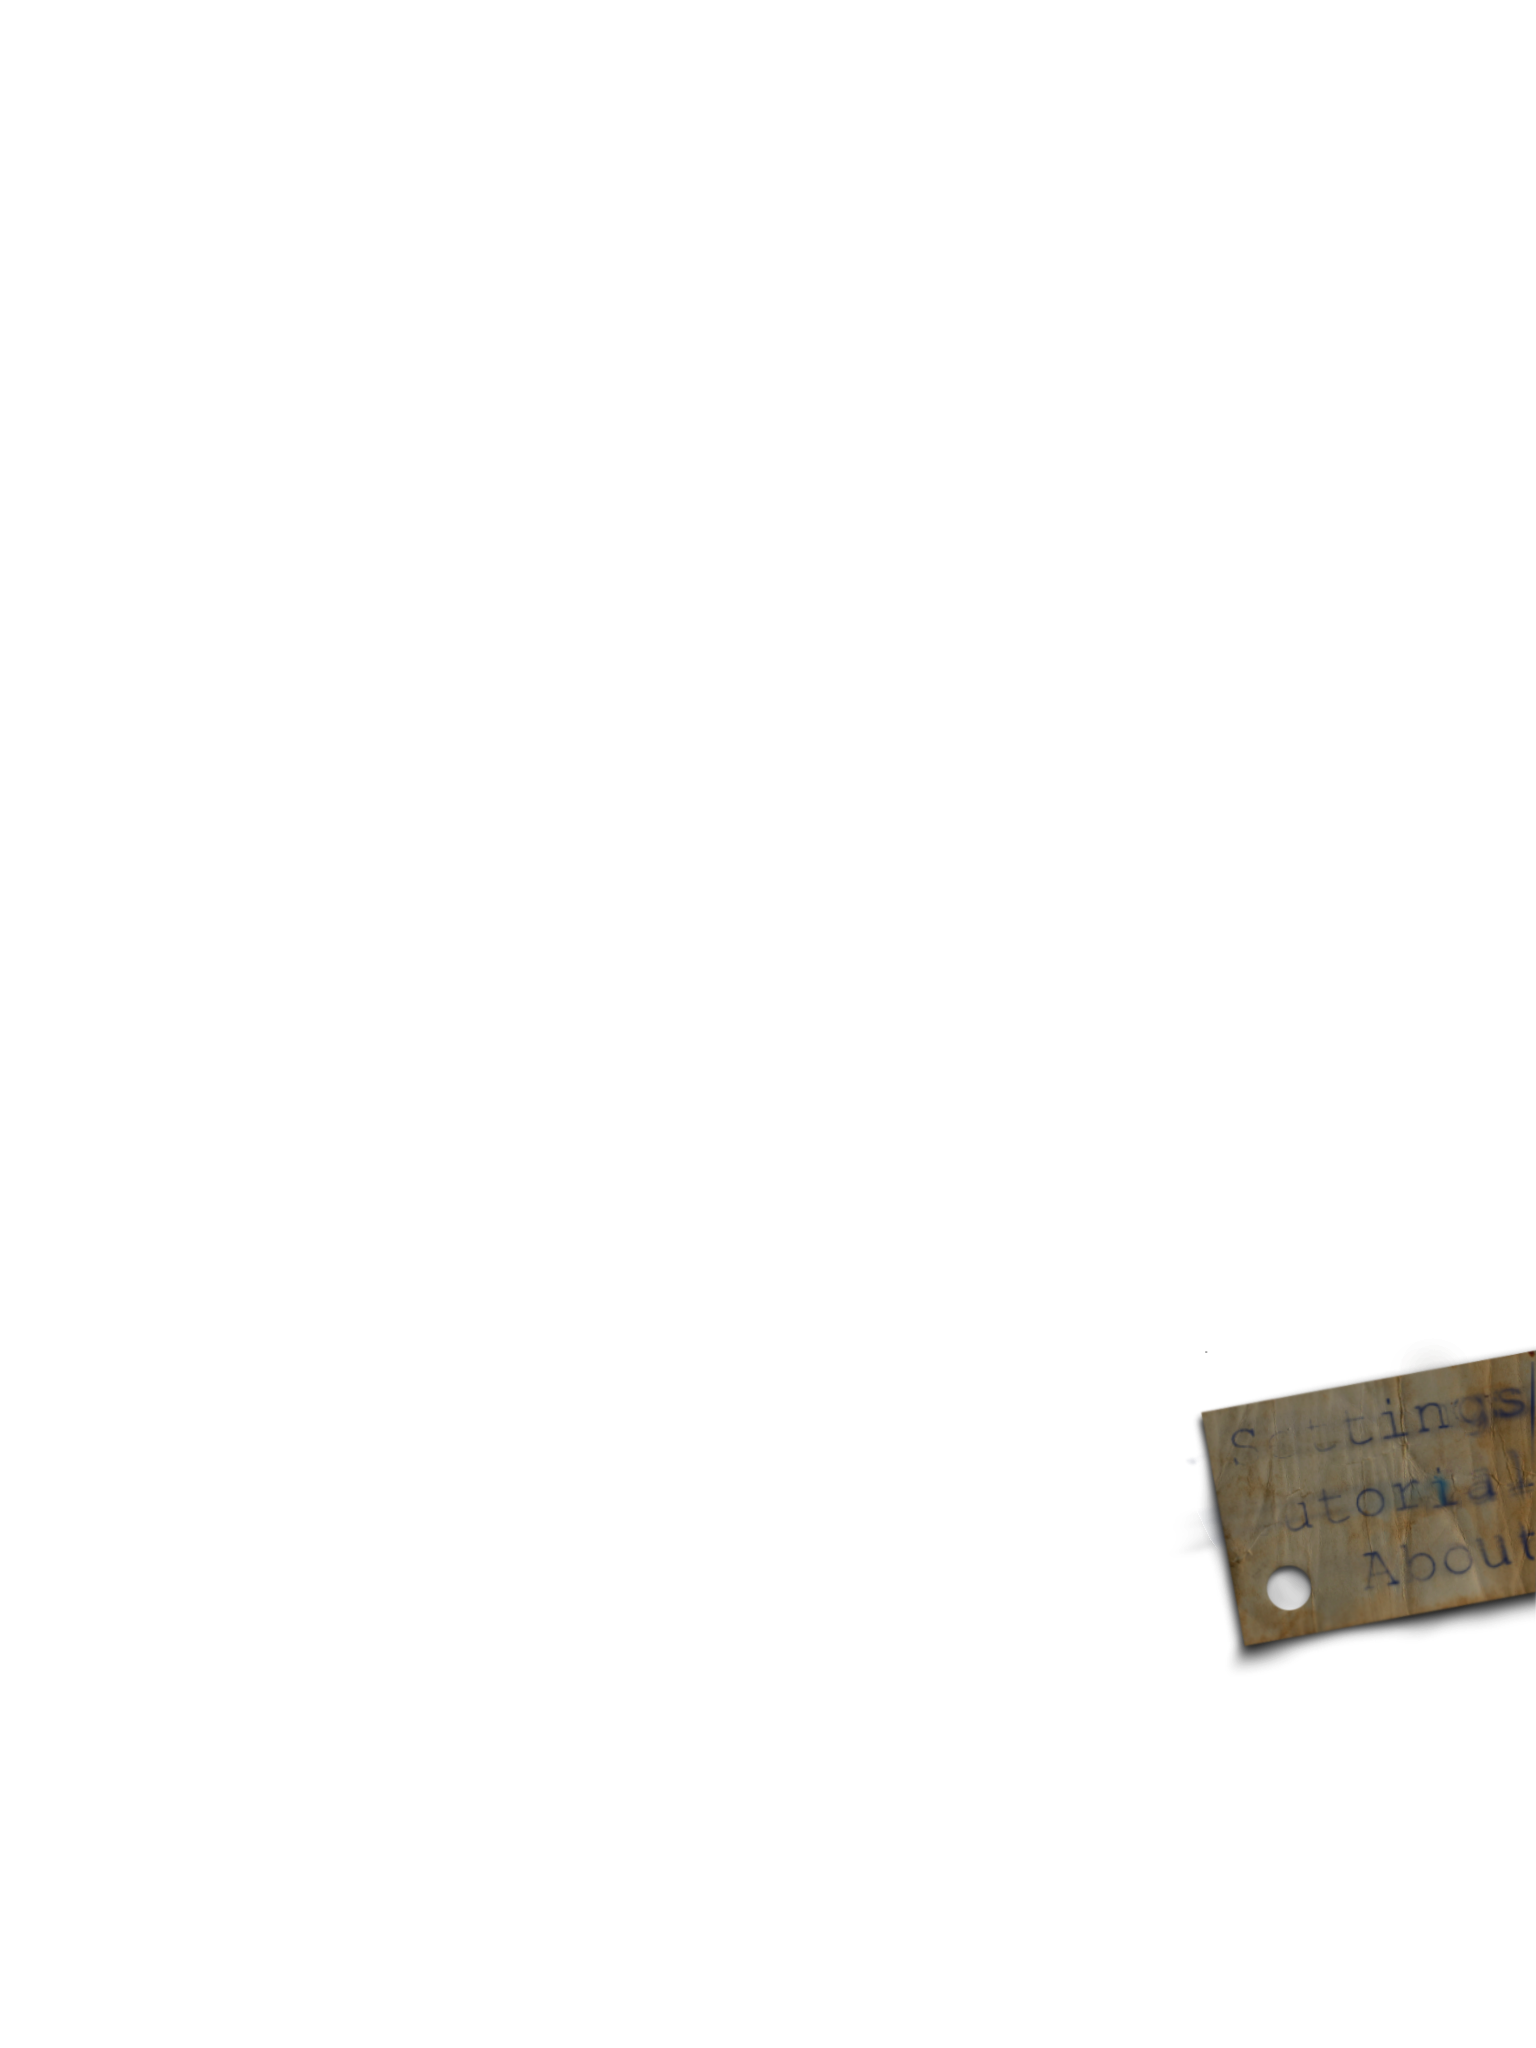
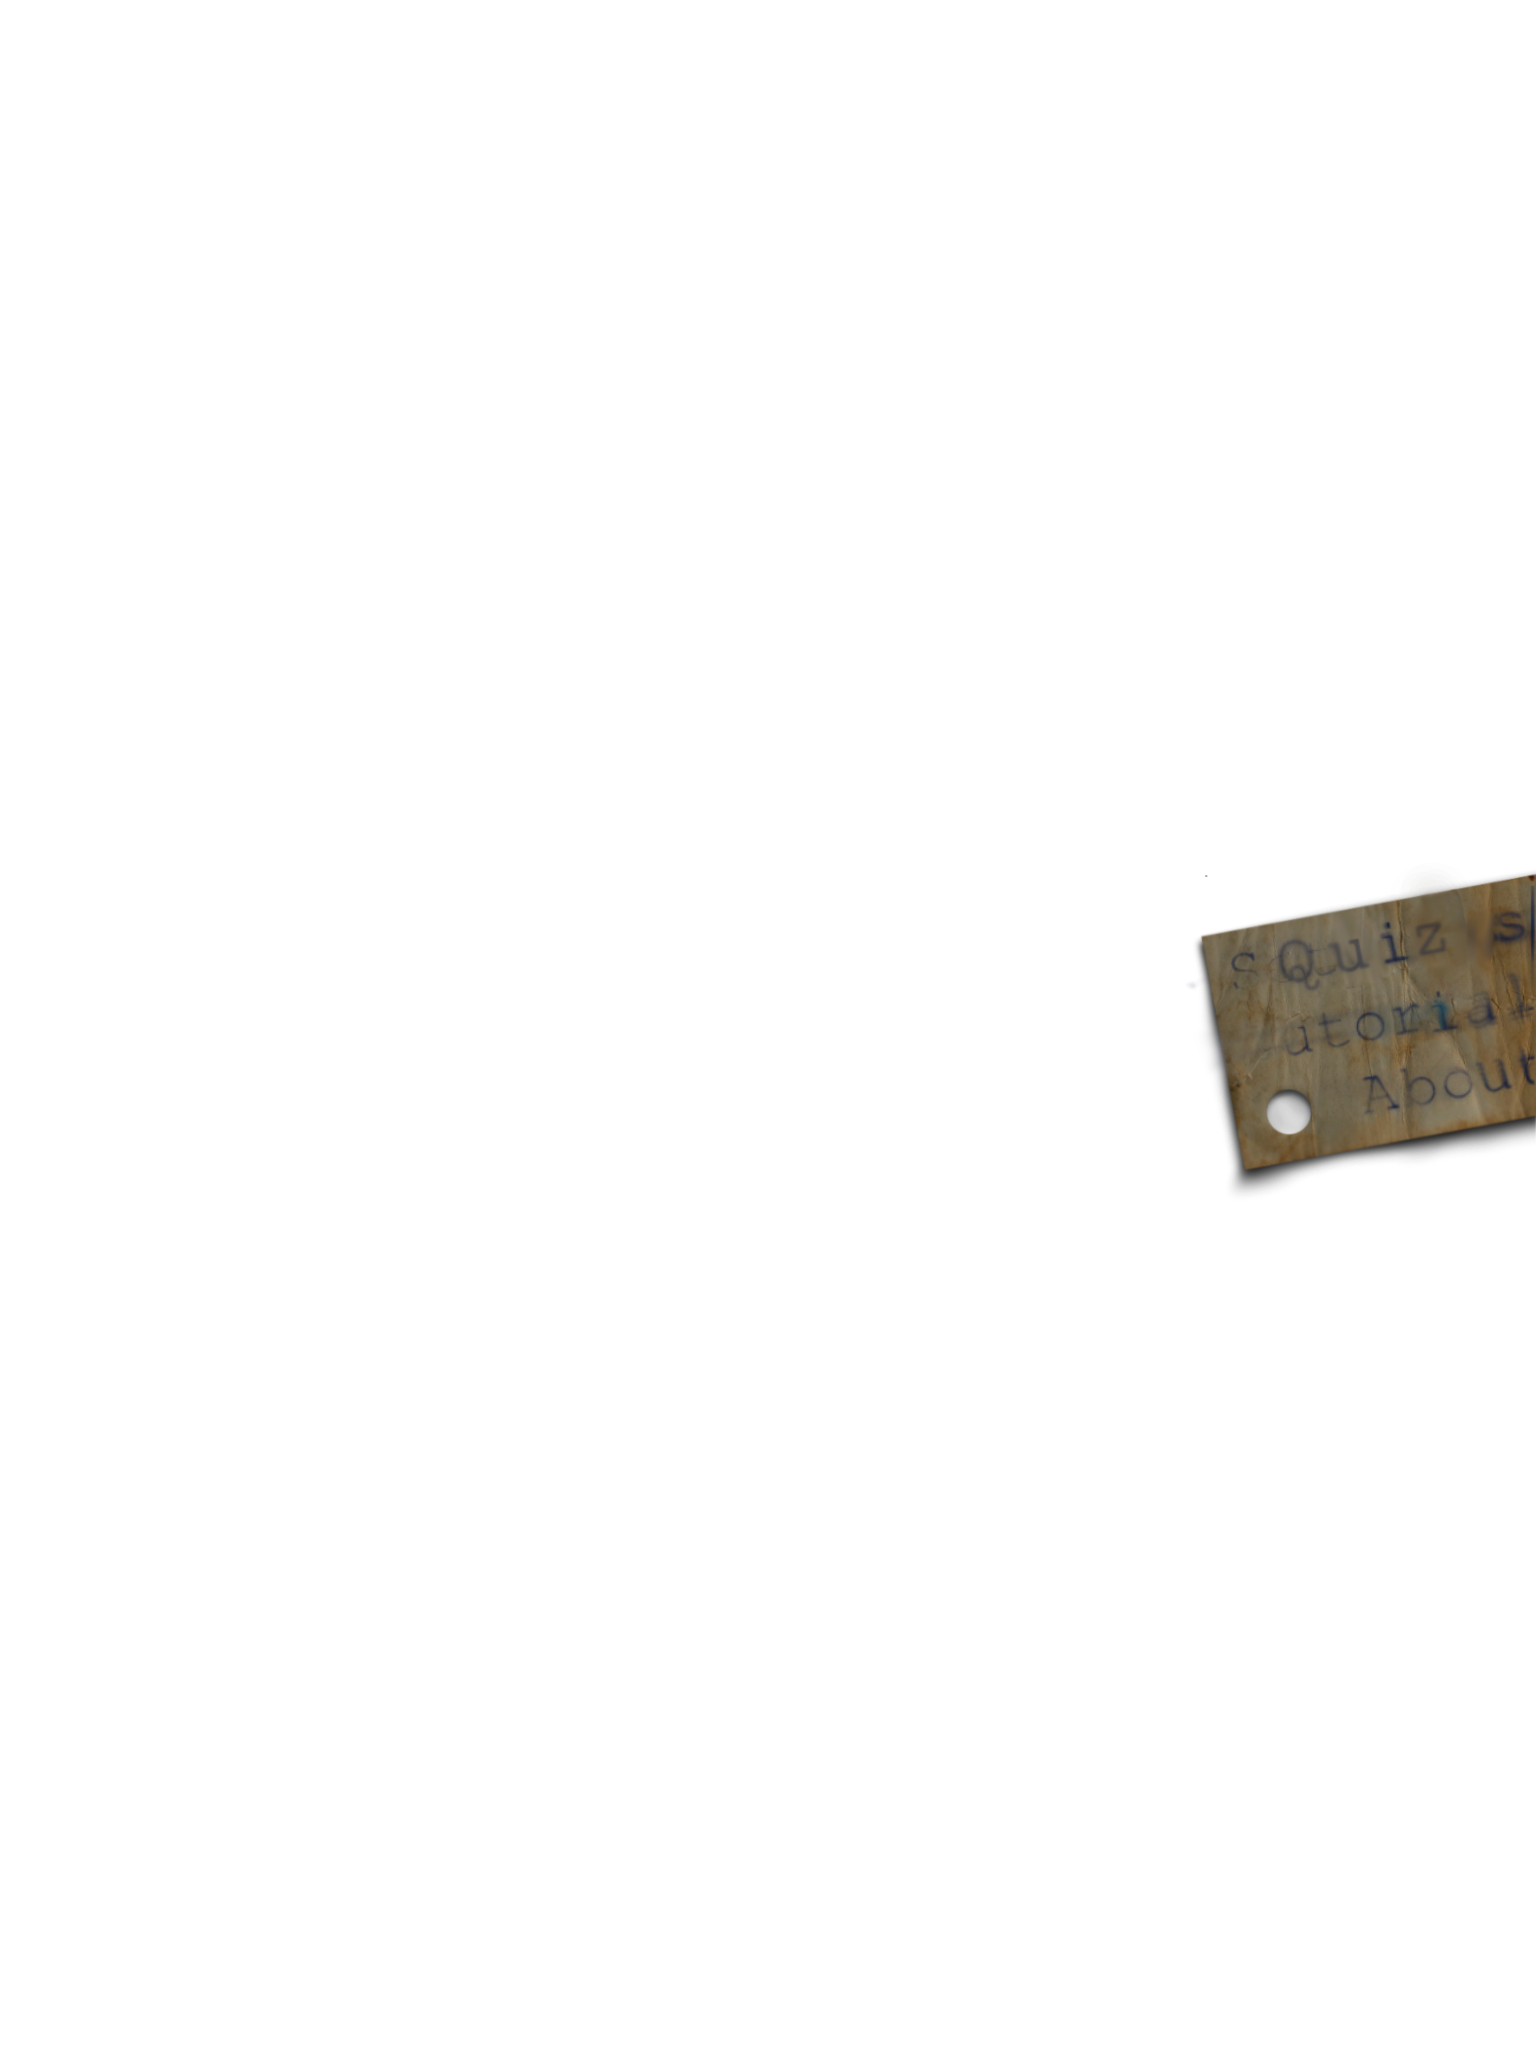
Build 09

Changed region(s): [[0.7812, 0.6562, 1.0, 0.8125], [0.7812, 0.4062, 1.0, 0.5938]]

diff --git a/Brainstem101/BSTutorialImageView.m b/Brainstem101/BSTutorialImageView.m
@@ -10,8 +10,8 @@
 
 const static int exitButtonWidthHeight = 150;
 
-
-@implementation BSTutorialImageView{
+@implementation BSTutorialImageView
+{
     CGRect yesButtonFrame;
     CGRect noButtonFrame;
 }
@@ -27,9 +27,9 @@ const static int exitButtonWidthHeight = 150;
         noButtonFrame = CGRectMake(410, 485, 90, 90);
         
         [self setUserInteractionEnabled:YES];
-        _exitButton = [UIButton buttonWithType:UIButtonTypeCustom];
-        [_exitButton addTarget:self action:@selector(quitTutorial:) forControlEvents:UIControlEventTouchUpInside];
-        [_exitButton setFrame: CGRectMake(tutorialFrame.size.width - exitButtonWidthHeight , tutorialFrame.size.height - exitButtonWidthHeight, exitButtonWidthHeight, exitButtonWidthHeight)];
+        self.exitButton = [UIButton buttonWithType:UIButtonTypeCustom];
+        [self.exitButton addTarget:self action:@selector(quitTutorial:) forControlEvents:UIControlEventTouchUpInside];
+        [self.exitButton setFrame: CGRectMake(tutorialFrame.size.width - exitButtonWidthHeight , tutorialFrame.size.height - exitButtonWidthHeight, exitButtonWidthHeight, exitButtonWidthHeight)];
         [self addSubview:_exitButton];
         
         [[BSModel sharedModel] setInTutorialMode:YES];
@@ -38,38 +38,50 @@ const static int exitButtonWidthHeight = 150;
 }
 
 
-+ (BSTutorialImageView *) askTutorial {
++ (BSTutorialImageView *)askTutorial
+{
     BSTutorialImageView *tutorialView = [[BSTutorialImageView alloc] init];
     [tutorialView askTutorial];
     return tutorialView;
 }
 
-+ (BSTutorialImageView *) page0Tutorial {
++(BSTutorialImageView *)page0Tutorial
+{
     BSTutorialImageView *tutorialView = [[BSTutorialImageView alloc] init];
     [tutorialView page0Tutorial];
     return tutorialView;
 }
 
-+ (BSTutorialImageView *) atlasTutorial {
++(BSTutorialImageView *)atlasTutorial
+{
     BSTutorialImageView *tutorialView = [[BSTutorialImageView alloc] init];
     [tutorialView atlasTutorial];
     return tutorialView;
 }
 
-+ (BSTutorialImageView *) clinicalTutorial {
++(BSTutorialImageView *)clinicalTutorial
+{
     BSTutorialImageView *tutorialView = [[BSTutorialImageView alloc] init];
     [tutorialView clinicalTutorial];
     return tutorialView;
 }
 
-+ (BSTutorialImageView *) profileTutorial {
++(BSTutorialImageView *)profileTutorial
+{
     BSTutorialImageView *tutorialView = [[BSTutorialImageView alloc] init];
     [tutorialView profileTutorial];
     return tutorialView;
 }
 
++(BSTutorialImageView *)quizTutorial
+{
+    BSTutorialImageView *tutorialView = [[BSTutorialImageView alloc] init];
+    [tutorialView quizTutorial];
+    return tutorialView;
+}
 
-- (void)quitTutorial:(UIButton *) sender{
+-(void)quitTutorial:(UIButton *)sender
+{
     [UIView animateWithDuration:1 delay:0 options:UIViewAnimationCurveEaseInOut animations:^{
         [self setAlpha:0.0];
     } completion:^(BOOL finished) {
@@ -80,8 +92,8 @@ const static int exitButtonWidthHeight = 150;
     }];
 }
 
--(void) askTutorial {
-    
+-(void)askTutorial
+{
     [self setImage:[UIImage imageNamed:@"tutorial-ask.png"]];
     
     UIButton *yesButton = [UIButton buttonWithType:UIButtonTypeCustom];
@@ -95,7 +107,8 @@ const static int exitButtonWidthHeight = 150;
     [self addSubview:noButton];
 }
 
-- (void) userRespondedYes {
+-(void)userRespondedYes
+{
     for (UIView *view in self.subviews) {
         if (view != _exitButton) {
             [view removeFromSuperview];
@@ -111,27 +124,38 @@ const static int exitButtonWidthHeight = 150;
     }];
 }
 
-- (void) userRespondedNo {
+-(void)userRespondedNo
+{
     [self quitTutorial:nil];
 }
 
--(void) page0Tutorial {
+-(void)page0Tutorial
+{
     [self setImage:[UIImage imageNamed:@"tutorial-page0.png"]];
 }
 
--(void) atlasTutorial{
+-(void)atlasTutorial
+{
     [self setImage:[UIImage imageNamed:@"tutorial-atlas.png"]];
 }
 
--(void) clinicalTutorial{
+-(void)clinicalTutorial
+{
     [self setImage:[UIImage imageNamed:@"tutorial-clinical.png"]];
 }
 
--(void) profileTutorial{
+-(void)profileTutorial
+{
     [self setImage:[UIImage imageNamed:@"tutorial-profile.png"]];
 }
 
-- (BOOL)pointInside:(CGPoint)point withEvent:(UIEvent *)event {
+-(void)quizTutorial
+{
+    [self setImage:[UIImage imageNamed:@"tutorial-quiz.png"]];
+}
+
+-(BOOL)pointInside:(CGPoint)point withEvent:(UIEvent *)event
+{
     if (CGRectContainsPoint(_exitButton.frame, point) || CGRectContainsPoint(yesButtonFrame, point) || CGRectContainsPoint(noButtonFrame, point)){
         return YES;
     }

diff --git a/Brainstem101/BSQuizViewController.m b/Brainstem101/BSQuizViewController.m
@@ -20,6 +20,31 @@
     questions = [BSQuestionGenerator questions];
 }
 
+-(void)viewDidAppear:(BOOL)animated
+{
+    [super viewDidAppear:animated];
+    
+    if ([[BSModel sharedModel] inTutorialMode]) {
+        if (![self.view viewWithTag:8008]) {
+            BSTutorialImageView *tutorialView = [BSTutorialImageView quizTutorial];
+            [tutorialView setDelegate:self];
+            [tutorialView setTag:8008];
+            [tutorialView setAlpha:0.0];
+            [self.view addSubview:tutorialView];
+            [UIView animateWithDuration:0.5     delay:0 options:UIViewAnimationOptionCurveEaseInOut animations:^{
+                [tutorialView setAlpha:1.0];
+            } completion:nil];
+        }
+    }
+}
+
+#pragma mark BSTutorialImageViewDelegate
+
+-(void)dissmissTutorialImageView:(id)tutorialView
+{
+    tutorialView = nil;
+}
+
 - (IBAction)backAction:(id)sender
 {
     [self dismissViewControllerAnimated:YES completion:nil];

diff --git a/Brainstem101/BSAppDelegate.m b/Brainstem101/BSAppDelegate.m
@@ -7,10 +7,13 @@
 //
 
 #import "BSAppDelegate.h"
+#import <TestFlightSDK/TestFlight.h>
 
 @implementation BSAppDelegate
 
-- (BOOL)application:(UIApplication *)application didFinishLaunchingWithOptions:(NSDictionary *)launchOptions {
+- (BOOL)application:(UIApplication *)application didFinishLaunchingWithOptions:(NSDictionary *)launchOptions
+{
+    [TestFlight takeOff:@"45885b29-29dc-4532-9753-6a5bd4345da1"];
     [BSModel sharedModel];
     return YES;
 }

diff --git a/Brainstem101/BSQuizViewController.h b/Brainstem101/BSQuizViewController.h
@@ -9,8 +9,10 @@
 #import <UIKit/UIKit.h>
 #import "BSQuestionGenerator.h"
 #import "BSQuizQuestion.h"
+#import "BSTutorialImageView.h"
 
-@interface BSQuizViewController : UIViewController<UICollectionViewDataSource, UICollectionViewDelegate>
+
+@interface BSQuizViewController : UIViewController<UICollectionViewDataSource, UICollectionViewDelegate, BSTutorialImageViewDelegate>
 
 @property (weak, nonatomic) IBOutlet UICollectionView *collectionView;
 

diff --git a/Brainstem101/BSTutorialImageView.h b/Brainstem101/BSTutorialImageView.h
@@ -23,6 +23,7 @@
 + (BSTutorialImageView *) atlasTutorial;
 + (BSTutorialImageView *) clinicalTutorial;
 + (BSTutorialImageView *) profileTutorial;
++ (BSTutorialImageView *) quizTutorial;
 
 @end
 
